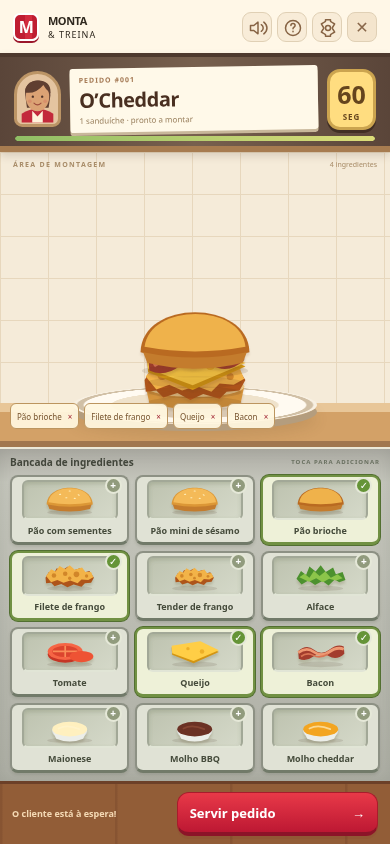
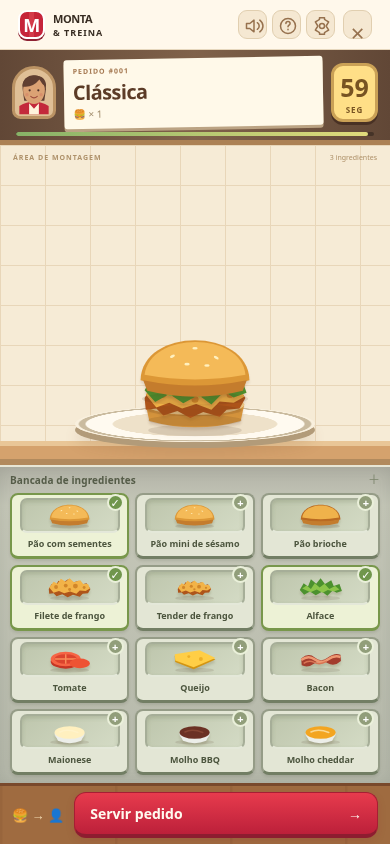
docs: explicar navegação por abas e atualizar imagens do aplicativo

diff --git a/README.md b/README.md
@@ -4,20 +4,30 @@ Simulador de treino para Android, em português de Portugal. Cozinha visual com 
 
 ## Como jogar
 
-1. Escolhe um produto ou pedidos aleatórios, a duração e o modo: pedido único ou turno de cinco clientes.
+1. No início, abre **Treino** ou toca nos cartões ilustrados. Escolhe a receita, o modo e o tempo nas respetivas abas. Guarda e toca em **Começar treino**.
 2. O pedido aparece no talão, junto ao cliente e à barra de tempo.
-3. Toca nos ingredientes da bancada para os adicionar. O sanduíche ganha camadas ilustrativas. Toca novamente no recipiente ou na etiqueta do ingrediente para o retirar.
-4. Toca em **Servir pedido** antes de acabar o tempo. A revisão mostra o que acertaste, o que faltou e o que estava a mais.
+3. Toca nos ingredientes da bancada para os adicionar. O sanduíche ganha camadas ilustrativas. Toca novamente no recipiente para o retirar.
+4. Toca em **Servir pedido** antes de acabar o tempo. Nos resultados, alterna entre **Resumo** e **Revisão**. Os grupos Corretos, Faltaram e A mais mostram os ingredientes com ilustrações e páginas quando necessário.
 5. No modo turno, avança para o próximo cliente. No fim vês quantos dos cinco pedidos ficaram perfeitos.
 
-A bancada e o botão de servir ficam visíveis no ecrã de telemóvel em posição vertical. Em posição horizontal ou em ecrãs muito pequenos pode ser necessário deslocar a cozinha.
+A interface usa a altura do ecrã e não exige deslocação vertical: início, preparação, ajuda, definições, cozinha e resultados. Os conteúdos mais longos estão divididos em abas e páginas; os testes verificam também se os controlos continuam visíveis e clicáveis, em vez de apenas ocultar o scroll. São verificados ecrãs de 320 × 568, 390 × 844, 740 × 360 e 1024 × 768.
+
+## Abertura e carregamento
+
+A abertura mostra o sanduíche a montar-se, ingredientes flutuantes e a identidade visual do jogo. Avança automaticamente ou através de **Entrar na cozinha**. O arranque nativo Android e o primeiro conteúdo HTML usam a mesma paleta.
+
+Antes de cada pedido, uma transição animada prepara a bancada e aguarda a preparação das fontes locais. O cronómetro só começa quando a cozinha está disponível. A animação pode ser cancelada e respeita as definições de movimento reduzido. Não simula percentagens de downloads.
+
+![Abertura animada](docs/abertura.png)
+
+![Início com navegação sem scroll](docs/inicio.png)
 
 ![Cozinha de treino num telemóvel](docs/cozinha.png)
 
 ## Ajuda, áudio e animações
 
-- **Ajuda:** disponível no menu e no botão de interrogação durante o treino. Explica o jogo e permite consultar os ingredientes das quatro receitas. O relógio fica em pausa enquanto o painel está aberto e retoma ao fechá-lo.
-- **Definições:** som geral, efeitos, música de fundo, volume e animações, guardados no dispositivo. Também existe um botão rápido de silêncio no topo. Por defeito, os efeitos estão ativos, o volume fica a 60% e a música está desligada. A preferência de movimento reduzido do sistema é respeitada.
+- **Ajuda:** disponível no menu e no botão de interrogação durante o treino. Tem abas **Como jogar**, **Receitas** e **Sobre**. O guia avança passo a passo e as receitas usam ingredientes ilustrados. O relógio fica em pausa enquanto o painel está aberto e retoma ao fechá-lo.
+- **Definições:** abas **Áudio** e **Movimento**, com som geral, efeitos, música de fundo, volume e animações guardados no dispositivo. Também existe um botão rápido de silêncio no topo. Por defeito, os efeitos estão ativos, o volume fica a 60% e a música está desligada. A preferência de movimento reduzido do sistema é respeitada.
 - **Sons offline:** efeitos originais sintetizados no dispositivo para pão, frango, vegetais, queijo, bacon e molhos; entrada do pedido, entrega, sucesso, erro e aviso nos últimos cinco segundos. Não há ficheiros de áudio remotos. “Testar som” permite verificar o volume.
 - **Animações:** ingredientes voam entre os recipientes e a bandeja, assentam no sanduíche e a bandeja sai ao servir. As ações ficam bloqueadas durante a entrega para evitar duplicação. Os resultados apresentam estrelas e celebram um pedido perfeito com confettis.
 - **Segundo plano:** a música e os efeitos param quando a aplicação deixa de estar visível. O cronómetro continua; a pausa é exclusiva do painel de ajuda e definições. O áudio é iniciado após um toque do utilizador.
